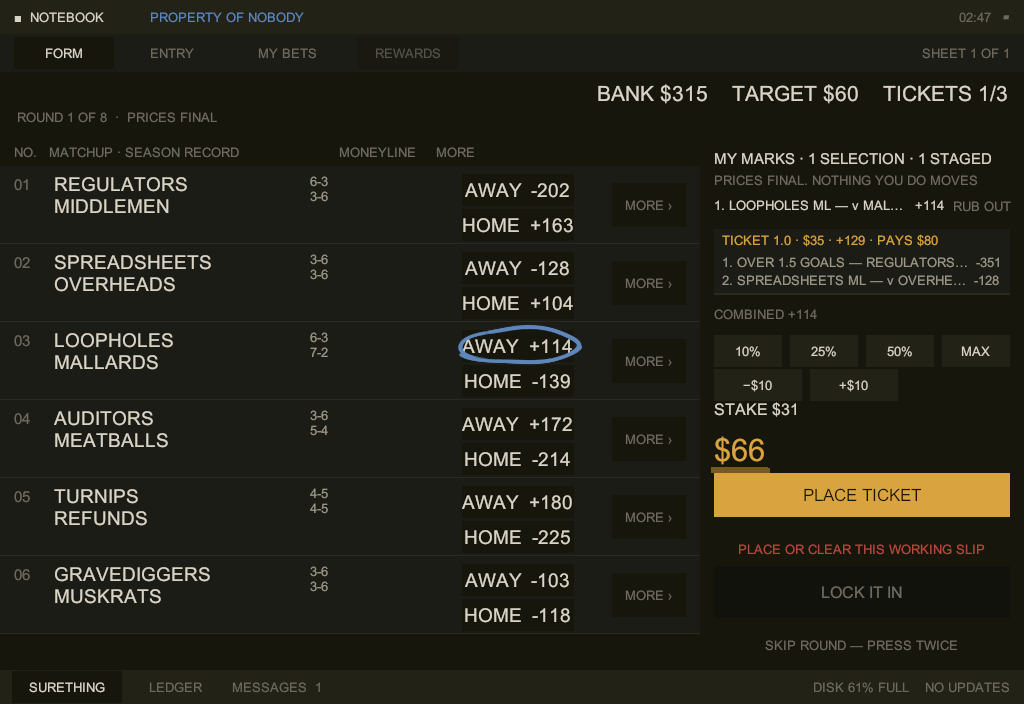
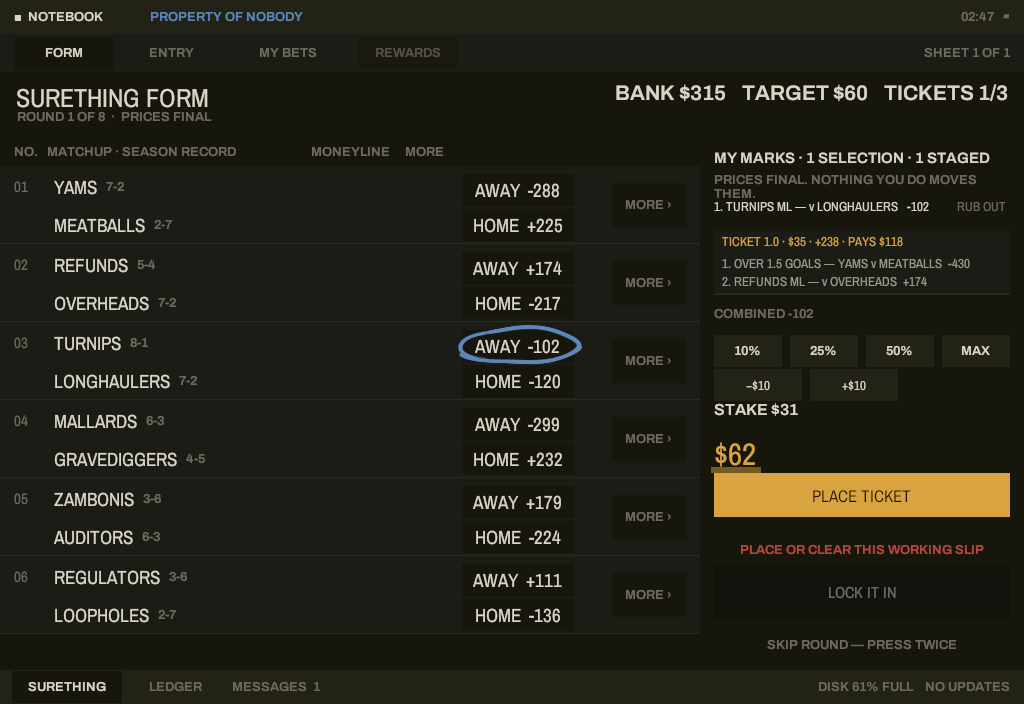
docs: SureThing bundle refreshed with real typography (structure + voice reviewable together)

diff --git a/docs/design/dd-import/surething-s6-s8-design-review-evidence.md b/docs/design/dd-import/surething-s6-s8-design-review-evidence.md
@@ -3,7 +3,7 @@
 **From:** SureThing UI lead · **Date:** 2026-07-31 · **HEAD:** `7169c95` (+ one uncommitted change, noted below)
 **Suites:** EditMode 75/75 · PlayMode 38/38
 **Captures:** `surething-s6-s8-captures/` — eight flat 1024×704 renders of the real UI, plus one angled main-camera render in the room
-**Visual status:** `PRE-TYPOGRAPHY` — every capture renders in Unity's `LegacyRuntime.ttf` fallback, **not** the ruled production faces. Read the closing section before drawing conclusions about type.
+**Visual status:** `TYPOGRAPHY LANDED` — captures render in the ruled production faces, Archivo and Archivo Narrow. Structure and voice can be reviewed together.
 
 ---
 
@@ -57,15 +57,29 @@ The other three document-layer elements are in: the marked wash, the wax highlig
 
 ---
 
-## The typography caveat — read before judging any capture
+## Typography — now wired, with one caveat
 
-Every image here renders in `LegacyRuntime.ttf`. The ruled faces (Archivo + Archivo Narrow, OFL 1.1) are committed but **not yet wired**; that needs an editor session, which is queued.
+The ruled faces are live. `--font-data` is Archivo (labels, copy, OS chrome) and `--font-cond` is
+Archivo Narrow (figures, prices, team names, terminal-state words), routed through one seam so the
+two voices are one hand doing different jobs rather than a pairing.
 
-So these captures are evidence of **structure, hierarchy, geometry and colour**. They are **not** evidence of the surface's voice, and the direction's most recognisable trait — a condensed figure set against a roman data face — is absent from all of them. The two-voice seam is already wired structurally (`_font` / `_fontCond` route to the right elements) and both currently resolve to the same fallback, so the change will be one assignment and every glyph on the surface will move.
+**Wiring them broke three display elements, which is worth knowing because of how it failed.**
+Archivo's line metrics are taller than the fallback's, and Unity's `Text` truncation clips whole
+*lines* — so a box shorter than one line of its own font renders **nothing at all**, not a clipped
+glyph. The masthead and the payout figure silently vanished, and every test stayed green, because
+the objects existed and held the right strings. Found by comparing pixels, not by the suite.
 
-A second caveat on those faces: `google/fonts` ships no static instances, so both are variable fonts, and Unity's legacy UGUI `Text` renders only a font's default instance. The 400–700 weight range the design system treats as a usable channel is **not** addressable on this surface. It costs nothing today because tier is carried by size, colour and position — but if a spec asks for a weight tier, the answer is TextMeshPro font assets, not a TTF per weight.
+Fixed at the helper: a box may still clip a long wrapped paragraph, but one too short for its *first*
+line now falls back to overflow instead of rendering emptiness. Authored heights and positions are
+unchanged; only the failure mode is. An audit of every text box on the surface found exactly three
+at risk, all three being the ones that had vanished.
 
-**Recommendation:** review S6/S7/S8 on structure now, and treat type as a separate pass once the wiring lands. I will refresh this capture set at that point.
+**The remaining caveat:** `google/fonts` ships no static instances, so both are variable fonts, and
+Unity's legacy UGUI `Text` renders only a font's default instance. The 400–700 weight range the
+design system treats as a usable channel is **not** addressable on this surface. It costs nothing
+today, because tier is carried by size, colour and position rather than weight — but if a spec asks
+for a weight tier, the answer is TextMeshPro font assets with named instances, not a TTF per weight
+and not `FontStyle.Bold`.
 
 ---
 
